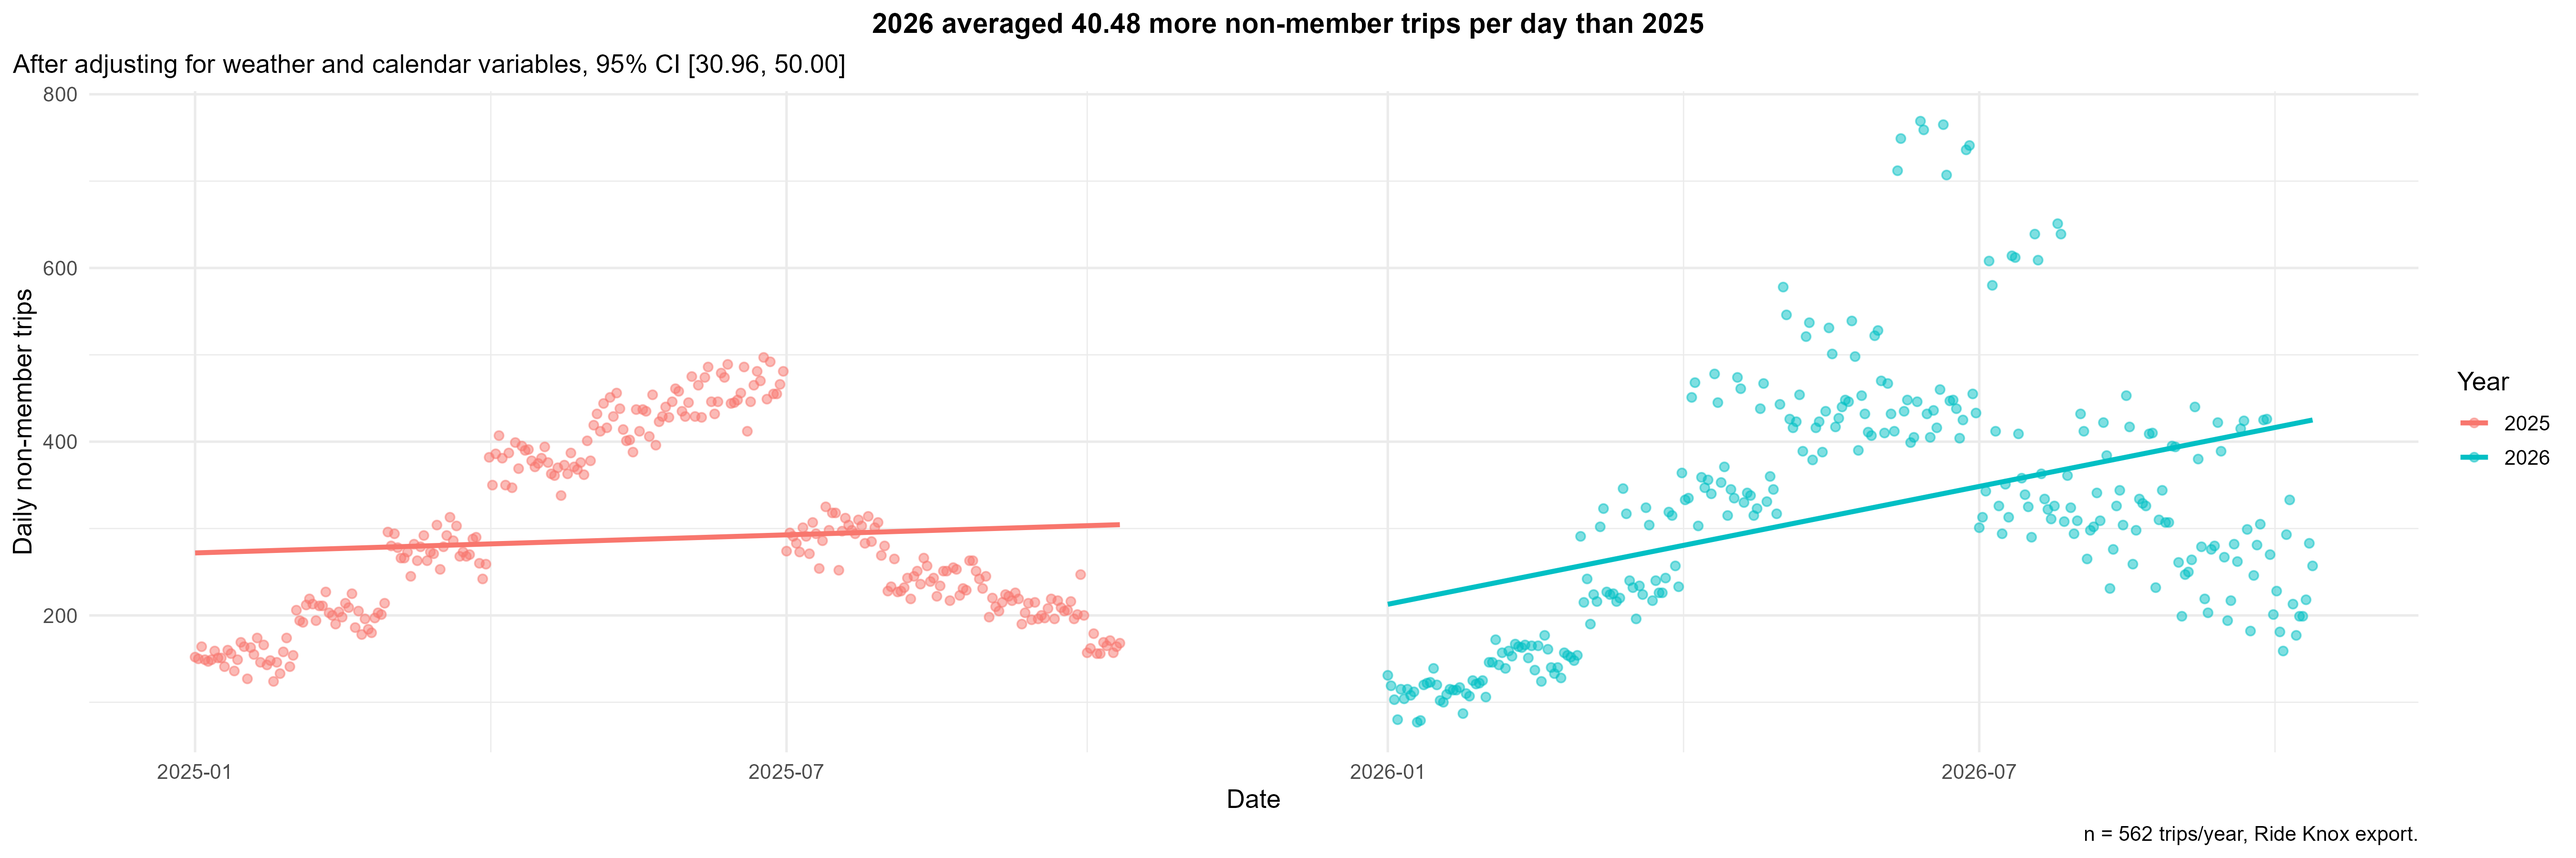
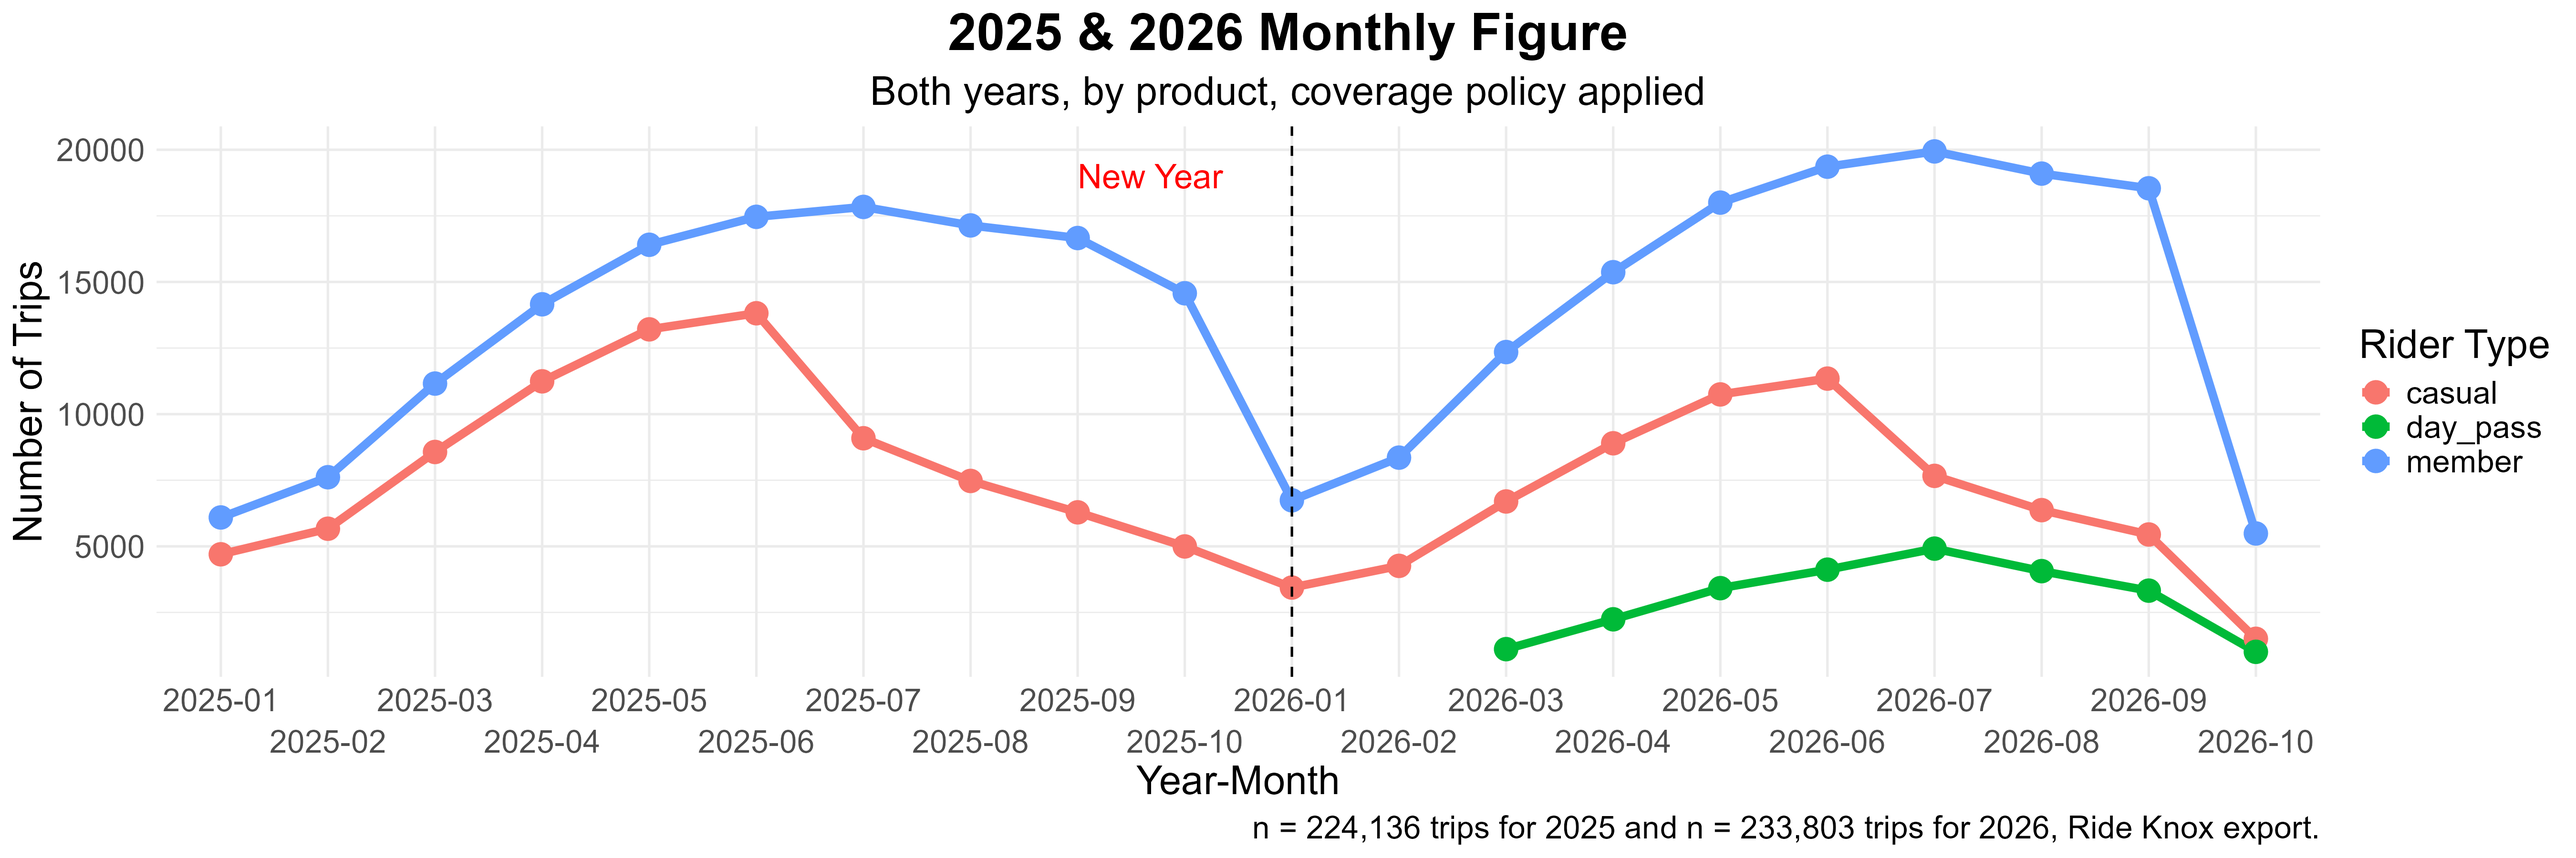
Final project updates

diff --git a/Final Project/docs/annual_report.html b/Final Project/docs/annual_report.html
@@ -2181,7 +2181,7 @@ vertical-align: -.125em;
   <li><a href="#the-two-year-picture" id="toc-the-two-year-picture" class="nav-link" data-scroll-target="#the-two-year-picture">2. The two-year picture</a></li>
   <li><a href="#the-integration-question" id="toc-the-integration-question" class="nav-link" data-scroll-target="#the-integration-question">3. The Integration Question</a>
   <ul class="collapse">
-  <li><a href="#interpretation" id="toc-interpretation" class="nav-link" data-scroll-target="#interpretation">Interpretation</a></li>
+  <li><a href="#integration-question-interpretation" id="toc-integration-question-interpretation" class="nav-link" data-scroll-target="#integration-question-interpretation">Integration Question Interpretation</a></li>
   </ul></li>
   <li><a href="#capacity-with-each-years-own-denominators" id="toc-capacity-with-each-years-own-denominators" class="nav-link" data-scroll-target="#capacity-with-each-years-own-denominators">4. Capacity, with each year’s own denominators</a></li>
   <li><a href="#memo-to-the-general-manager" id="toc-memo-to-the-general-manager" class="nav-link" data-scroll-target="#memo-to-the-general-manager">5. Memo to the General Manager</a></li>
@@ -2237,20 +2237,34 @@ vertical-align: -.125em;
      model, report the year effect with its interval, interpret it honestly
      (what does the year term bundle?), and produce the figure. -->
 <p>The weather join preserved all <code>568</code> daily trip records, confirming that the join did not change the number of observations. The comparison includes <code>284</code> days from each year, covering the same January 1–October 11 dates chosen as the acceptable comparison window. All trip dates had a corresponding weather record. However, precipitation was missing for <code>6</code> matched dates because sentinel values had been converted to missing values during warehouse loading. These observations will be excluded from analyses requiring precipitation rather than treating missing values as zero. Lastly, in the following analyses, day pass riders are counted as non-members to ensure there are two categories (members and non-members (casual and day pass riders)).</p>
-<section id="interpretation" class="level3">
-<h3 class="anchored" data-anchor-id="interpretation">Interpretation</h3>
+<section id="integration-question-interpretation" class="level3">
+<h3 class="anchored" data-anchor-id="integration-question-interpretation">Integration Question Interpretation</h3>
 <p>For the model analyses, 2025 includes casual riders only as non-member riders, while 2026 bundles casual and day pass riders as non-member riders. The naive model estimates that 2026 averaged 30.69 more non-member trips per day than 2025 (95% CI [9.77 – 51.62]). After adjusting for maximum temperature, minimum temperature, precipitation, weekday, and month, the estimated average difference increased to 40.48 more non-member trips per day between 2025 and 2026 (95% CI [30.96 – 50]; see figs/integration_daily_trips.png). The larger adjusted estimate/model suggests that weather and calendar structures account for <strong>some</strong> variation in daily non-member trips across years, information not available in the naive model. However, these adjustments do not establish the cause of that increase from the naive model.</p>
 </section>
 </section>
 <section id="capacity-with-each-years-own-denominators" class="level2">
 <h2 class="anchored" data-anchor-id="capacity-with-each-years-own-denominators">4. Capacity, with each year’s own denominators</h2>
-<p>The capacity comparison highlights Leadership acted on two stations (Hodges Library (S06) and Student Union - UT (S08)) by increasing the dock capacity from 24 in 2025 to 32 in 2026. Cumberland Ave &amp; 22nd St (S25) was a new station added in 2026 so that is why it has no 2025 comparison.</p>
+<p>The capacity comparison highlights leadership acted on two stations (Hodges Library (S06) and Student Union - UT (S08)) by increasing the dock capacity from 24 in 2025 to 32 in 2026. Cumberland Ave &amp; 22nd St (S25) was a new station added in 2026 so that is why it has no 2025 comparison.</p>
 <p>Departures per dock are calculated using each year’s actual dock count (as calculated by the <code>dock_history</code> table in the <code>sql/schema.sql</code>), therefore historical dock counts are appropriately used for 2025’s capacity. This provides a year-correct measure of station activity relative to available capacity. Although departures per dock help describe station pressure, they do not independently establish whether a station experienced capacity shortages or unmet demand.</p>
 </section>
 <section id="memo-to-the-general-manager" class="level2">
 <h2 class="anchored" data-anchor-id="memo-to-the-general-manager">5. Memo to the General Manager</h2>
 <!-- TODO: 250-350 words, five-part structure, every number inline code,
      denominators on every percentage, banned words per the instructions. -->
+<p><strong>Bottom line</strong></p>
+<p><strong><em>Weather and calendar structure may have accounted for the recovery in non-members riding.One system for the entire analytical operation has been built to view the analyses that led to this result.</em></strong></p>
+<p><strong>Evidence</strong></p>
+<p>For the analyses, 2025 includes casual riders only as non-member riders, while 2026 bundles casual and day pass riders as non-member riders. To make the year over year comparisons comparable, analyses were conducted between January 1 - October 11 of 2025 and 2026 since this is the extent to the data from 2026.</p>
+<p>From October 11, 2025 to October 11, 2026, <code>r (int_daily_stats$casual[1] -``int_daily_stats$casual[2])``/ (``int_daily_stats$casual[1]``)</code>% of casual riders were lost. However, the total percentage of non-member (casual and day pass rider) trips on October 11 increased from <code>r``int_daily_stats$non_member[1]/sum(oct_25$trips)</code>% in 2025 (2.24136^{5} total trips) to 0.0010992% in 2026 (2.33803^{5} total trips), showing the impact of the Day Pass rider option.</p>
+<p><strong><em>Without</em></strong> controlling for weather and calendar structure, 2026 averaged 30.69 more non-member trips per day than 2025 (95% CI [9.77 – 51.62]). After adjusting for maximum temperature, minimum temperature, precipitation, weekday, and month, the estimated average difference increased to 40.48 more non-member trips per day between 2025 and 2026 (95% CI [30.96 – 50]; see figs/integration_daily_trips.png).</p>
+<p>The new Ride Knox employee and/or auditors can get everything from the analyses to the results from one command.</p>
+<p><strong>Interpretation</strong></p>
+<p>When we include weather and calendar structures in the analysis, we account for <strong><em>some</em></strong> variation in daily non-member trips across years and this information is not available when those variables are controlled for. However, these adjustments do not establish the cause of that increase from the naive model.</p>
+<p>This one system accomadates the successor coming in January, vendor contract renewal, and the auditors that want to know how our published numbers are produced.</p>
+<p><strong>Limitations</strong></p>
+<p>The one minute cutoff rule implemented in the analysis causes us to lose data points that may otherwise influence our analysis. We excluded trips longer than 24 hours (bikes likely never docked properly). S99 stations have been filtered out, but trips missing an end_station_id have been kept in for these analyses. We must use a comparable window because we don’t have data past October 11, 2026. There are stations that have been excluded because they were missing both end station IDs and end times. We don’t currently have information from our riders that could be influencing their riding (e.g., reasons for riding, etc.) other than weather and calendar structure. Other than the test stations (S99) that should not be included in any analyses, the other options were chosen to best represent valid trips, while not losing trips that may have operational problems that can be investigated by the op’s team at a later time.</p>
+<p><strong>Recommendation</strong></p>
+<p>We should consider collecting survey data from riders to include as variables other than weather and calendar structure. This handover can now be used and updated with every new vendor export.</p>
 </section>
 
 </main>
